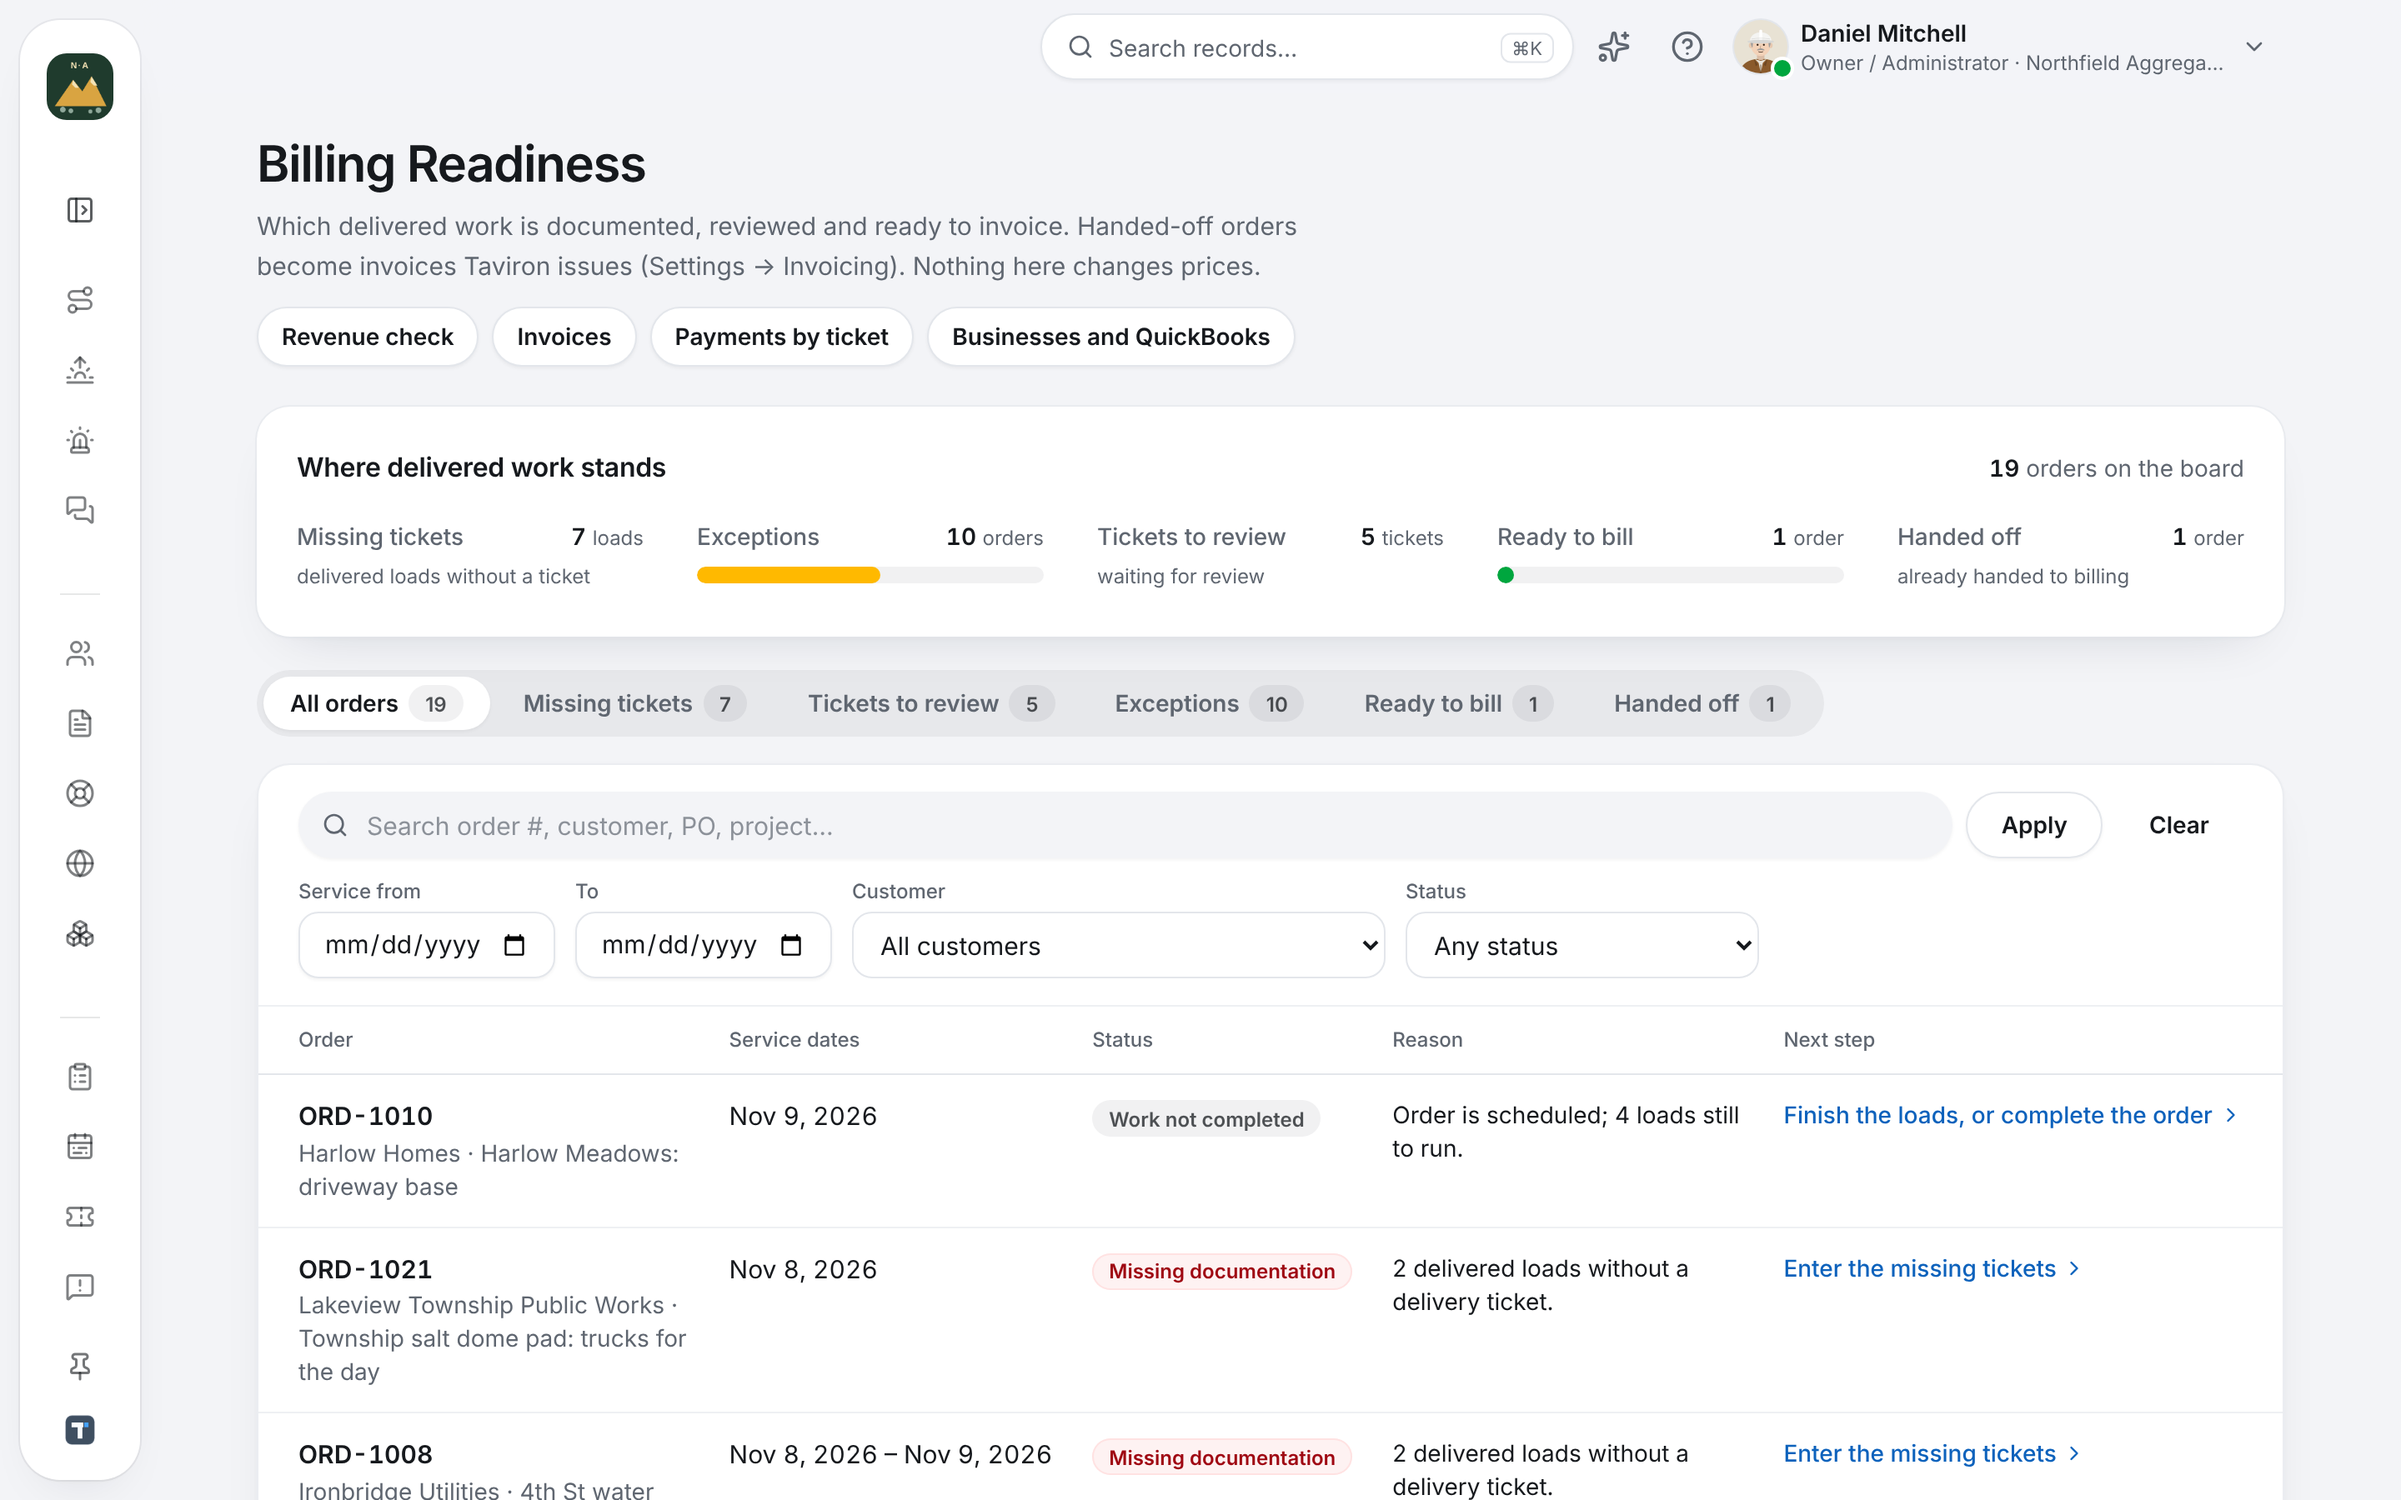
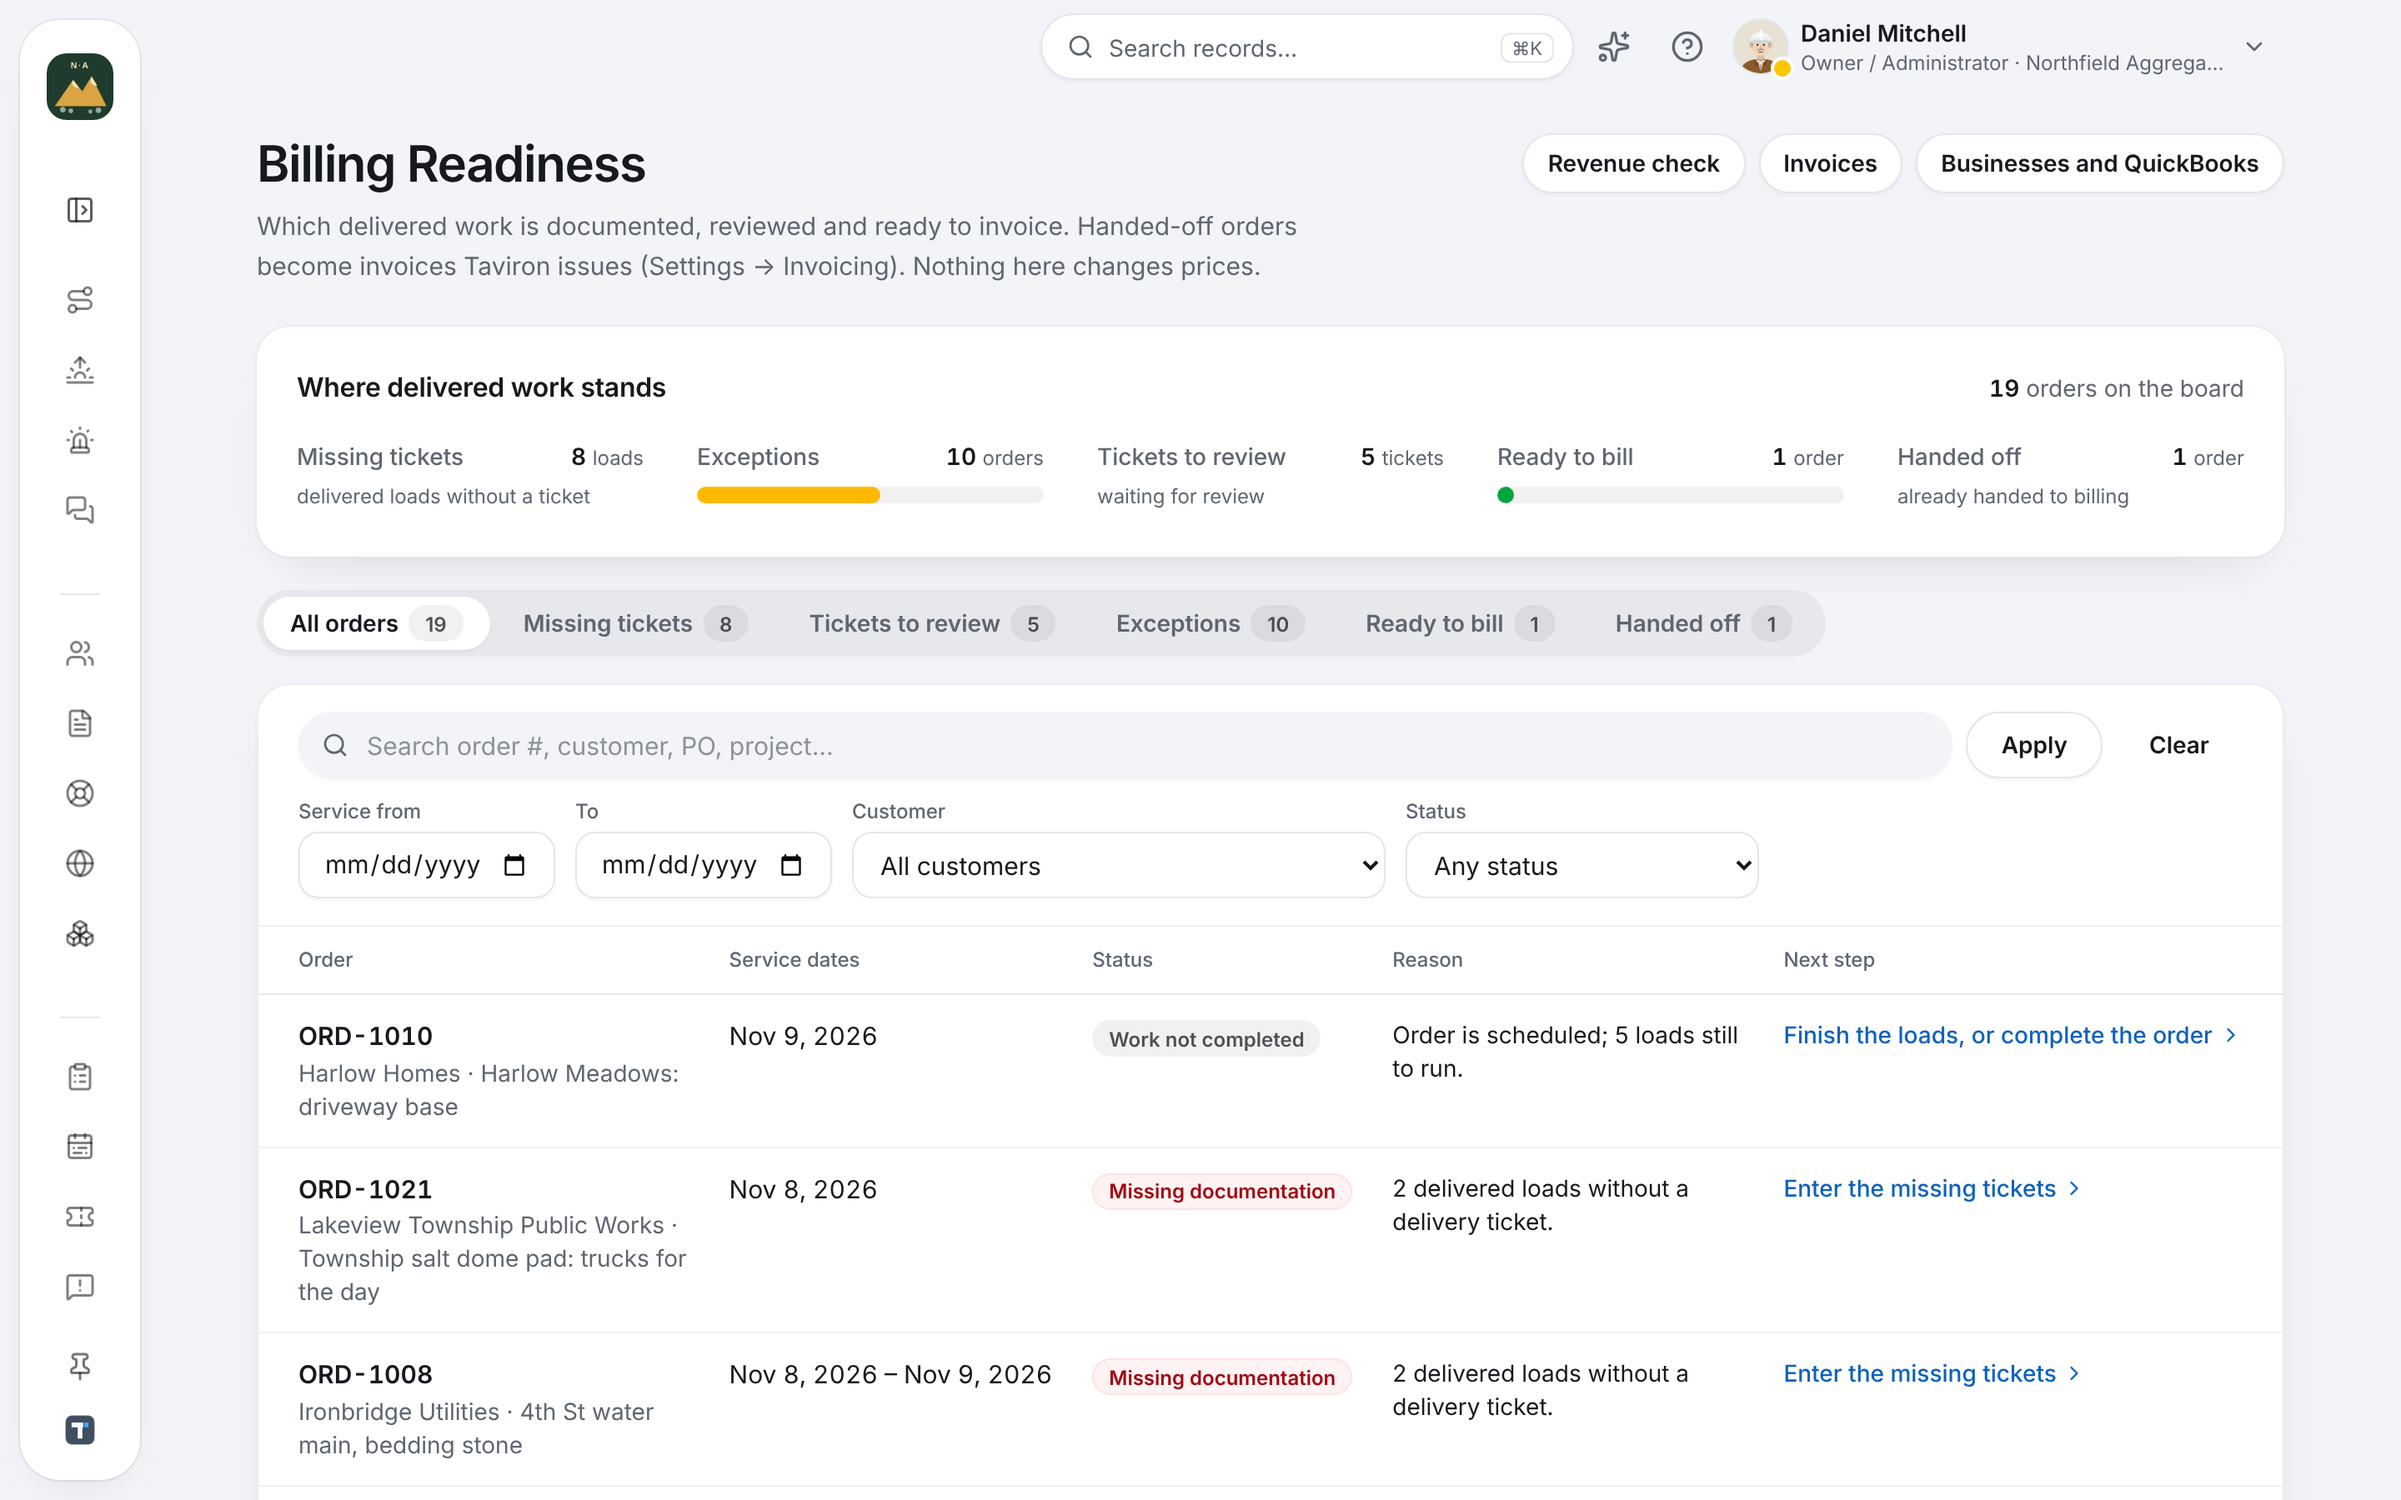
Busier demo for website images: answered support case, ticket to enter; billing image without unpublished button
Owner 2026-11-09: the sample late-delivery support case already has the
office's reply (through the database function; nothing is sent), and website
captures leave out controls of unpublished features (screenshots.json hide;
Payments by ticket stays unpublished). Command Center, driver and billing
images re-captured 2026-11-09 from a local production build of the demo.

Claude-Session: https://claude.ai/code/session_011hr46rCMiWaqaeSrWfu4TW

diff --git a/src/server/demo/samples.ts b/src/server/demo/samples.ts
@@ -173,6 +173,9 @@ export async function ensureFeatureSamples(db: Db, today: string): Promise<Sampl
   // Support center (B138): a 4-hour first-reply target and three cases (one waiting past it, one answered with an
   // internal note, one closed recently). Once per demo.
   note("support cases", await rpcCount(db, "demo_support_samples"));
+  // The sample late-delivery case already has the office's reply (owner 2026-11-09: no "waiting past the reply target"
+  // banner on every demo screen). Through the database function only: it records the reply and sends nothing.
+  note("support reply", await supportSampleReply(db));
   // Freight (MK4): the samples the database writes (support cases, portal booking, shift offer, safety findings) are
   // reworded for a freight demo, so a freight carrier never sees quarries, stone or pours. Exact sample text only.
   note("freight wording", await freightSampleWording(db));
@@ -1875,6 +1878,19 @@ async function freightStopSamples(db: Db, today: string): Promise<number> {
     n++;
   }
   return n;
+}
+
+async function supportSampleReply(db: Db): Promise<number> {
+  const open = await db.from("portal_support_requests").select("id").is("first_reply_at", null).like("subject", "Load arrived after%(demo)").limit(1);
+  if (missing(open.error) || !open.data?.length) return 0;
+  const { error } = await db.rpc("support_reply", {
+    p_request: (open.data[0] as { id: string }).id,
+    p_body: "Sorry about that. We moved tomorrow's loads earlier so they arrive while your crew is on site. (demo)",
+    p_internal: false, p_close: false,
+  });
+  if (missing(error)) return 0;
+  if (error) throw new Error(`Demo samples (support reply): ${error.message}`);
+  return 1;
 }
 
 async function rpcCount(db: Db, fn: string): Promise<number> {

diff --git a/tests/db/demo-samples.test.ts b/tests/db/demo-samples.test.ts
@@ -199,6 +199,9 @@ describe.skipIf(!available)("demo feature samples", () => {
     if (combined.length === 0) expect(twoReady.rows.length).toBe(0);
     else expect(combined).toEqual([["draft", 2]]);
     expect(invoices.rows.some((r) => r.overdue && Number(r.paid) === 0)).toBe(true);
+    // Support (owner 2026-11-09): the sample late-delivery case already has the office's first reply; nothing is overdue.
+    const unanswered = await q<{ n: string }>("select count(*) n from public.portal_support_requests where company_id = $1 and first_reply_at is null and status = 'open'", [w.company]);
+    expect(Number(unanswered.rows[0].n)).toBe(0);
     // Payments by ticket (TP1): one check on a partly paid invoice's tickets, one ticket paid in part, $25 kept as credit;
     // the invoice it paid follows (an invoice payment linked to it).
     const tp = await q<{ amount: string; apps: string; applied: string; linked: string }>("select p.amount_cents amount, (select count(*) from public.ticket_payment_applications a where a.payment_id = p.id) apps, (select coalesce(sum(a.amount_cents), 0) from public.ticket_payment_applications a where a.payment_id = p.id) applied, (select count(*) from public.invoice_payments ip where ip.customer_payment_id = p.id and ip.voided_at is null) linked from public.customer_payments p where p.company_id = $1", [w.company]);
